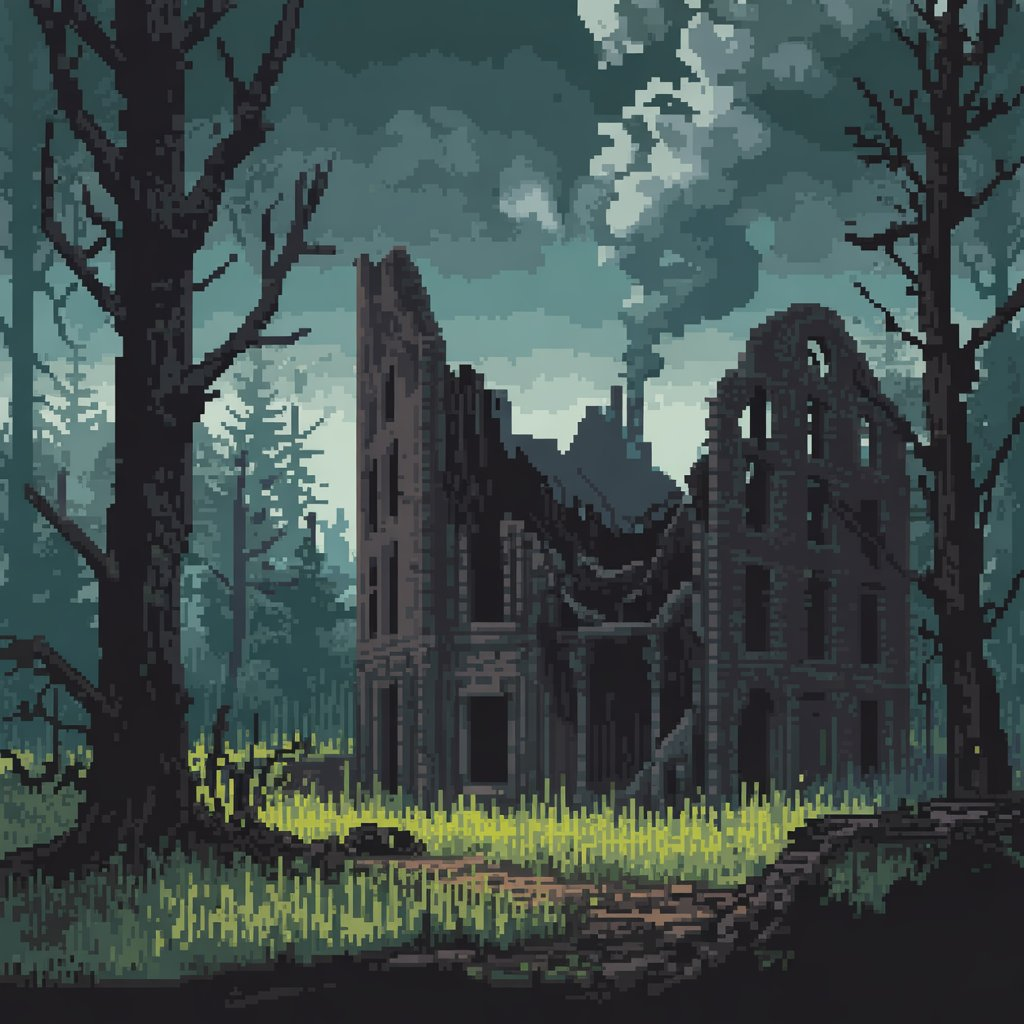
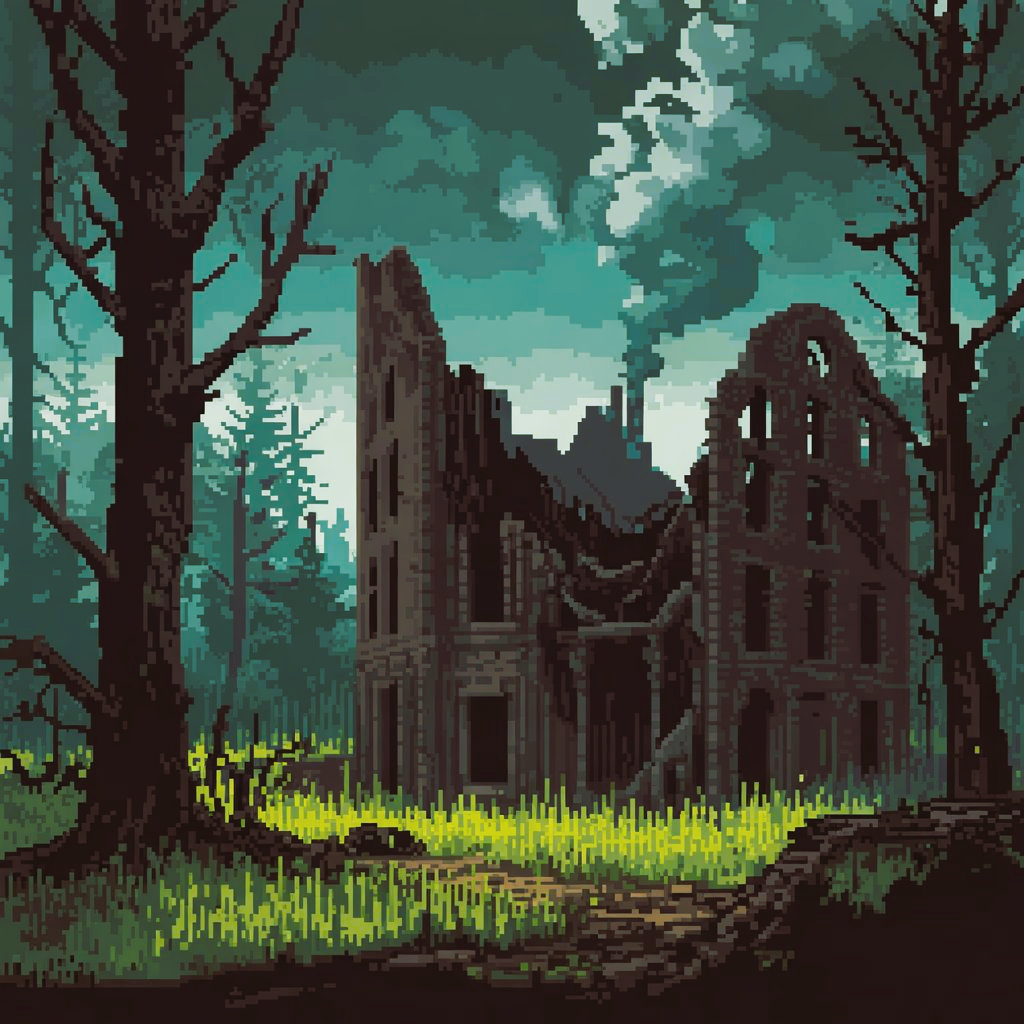
mudando visual

diff --git a/guaxinim.js b/guaxinim.js
@@ -1,4 +1,3 @@
-// Configuração inicial
 const canvas = document.getElementById('canvas').getContext('2d');
 canvas.imageSmoothingEnabled = false;
 
@@ -9,12 +8,12 @@ let tiros = new Audio('./Sound/som_tiro.wav');
 let death = new Audio('./Sound/som_morte.wav'); 
 let capivara = new Audio('./Sound/som_morte.wav');
 // let pedro = new Audio('./Sound/som_morte.wav');
-musica_fundo.loop = true;  // Faz a música tocar em loop
-musica_fundo.volume = 0.5; // Ajusta o volume para 50%
-tiros.volume = 0.8; // Ajusta o volume para 50%
-death.volume = 0.8; // Ajusta o volume para 50%
-capivara.volume = 0.8; // Ajusta o volume para 50%
-// pedro.volume = 0.8; // Ajusta o volume para 50%
+musica_fundo.loop = true;
+musica_fundo.volume = 0.5;
+tiros.volume = 0.8;
+death.volume = 0.8;
+capivara.volume = 0.8;
+// pedro.volume = 0.8;
 
 document.getElementById('playMusic').addEventListener('click', () => {
   if(musica_fundo.paused) {
@@ -42,7 +41,9 @@ let pts = 0; // Mantenha pts como uma variável global
 let faseAtual = 1;
 const FASE_2_PONTOS = 40;
 const FASE_3_PONTOS = 80;
-const FASE_FINAL = 120;
+const FASE_4_PONTOS = 120;
+const FASE_5_PONTOS = 160;
+const FASE_6_PONTOS = 200;
 
 // Grupos de objetos
 let groupShoot = [];
@@ -51,7 +52,7 @@ let groupSoldiers = [];
 // Fundos por fase
 const fundosPorFase = [
     { fundo: "assets/fundo3.png", fundo2: "assets/fundo3_1.png" },
-    { fundo: "assets/fundo1.png", fundo2: "assets/fundo1_1.png" },
+    { fundo: "assets/fundo2.png", fundo2: "assets/fundo2_1.png" },
     { fundo: "assets/fundo4.png", fundo2: "assets/fundo4_1.png" }
 ]
 
@@ -82,17 +83,46 @@ const infinityBg = {
         if (this.bg.x >= 2600) this.bg.x = 0;
         if (this.bg2.x >= 1300) this.bg2.x = -1300;
         if (this.bg3.x >= 0) this.bg3.x = -2600;
+    },
+    atualizarFundo(fase) {
+        // Usa o operador módulo (%) para ciclar entre as fases disponíveis
+        const indice = (fase - 1) % fundosPorFase.length;
+        this.bg.image = fundosPorFase[indice].fundo;
+        this.bg2.image = fundosPorFase[indice].fundo2;
+        this.bg3.image = fundosPorFase[indice].fundo;
     }
 };
 
 // Sistema de fases
 function atualizarFase() {
-    const novaFase = pts >= FASE_FINAL ? 4 : pts >= FASE_3_PONTOS ? 3 : pts >= FASE_2_PONTOS ? 2 : 1;
+    const novaFase = pts >= FASE_6_PONTOS ? 6 : pts >= FASE_5_PONTOS ? 5 : pts >= FASE_4_PONTOS ? 4 : pts >= FASE_3_PONTOS ? 3 : pts >= FASE_2_PONTOS ? 2 : 1;
 
     if (novaFase !== faseAtual) {
         faseAtual = novaFase;
         infinityBg.atualizarFundo(faseAtual);
         mostrarMensagemFase();
+    }
+    const faseAnterior = faseAtual;
+    faseAtual = pts >= FASE_6_PONTOS ? 6 : 
+               pts >= FASE_5_PONTOS ? 5 : 
+               pts >= FASE_4_PONTOS ? 4 : 
+               pts >= FASE_3_PONTOS ? 3 : 
+               pts >= FASE_2_PONTOS ? 2 : 1;
+
+    if (faseAtual !== faseAnterior) {
+        infinityBg.atualizarFundo(faseAtual);
+        mostrarMensagemFase();
+        
+        // Aumenta a dificuldade progressivamente
+        aumentarDificuldade(faseAtual);
+    }
+}
+
+function aumentarDificuldade(fase) {
+    // Você pode adicionar efeitos especiais para fases específicas
+    if (fase === 4) {
+        // Exemplo: na fase 4 (que usa o mesmo fundo que a 1), adicione algo especial
+        console.log("Fase especial iniciada!");
     }
 }
 
@@ -118,10 +148,12 @@ const soldiers = {
 
     spawnSoldiers() {
         this.time++;
-        const spawnRate = faseAtual === 4 ? 30 : faseAtual === 3 ? 40 : faseAtual === 2 ? 50 : 60;
+        const spawnRate = faseAtual === 6 ? 10 : faseAtual === 5 ? 20 : faseAtual === 4 ? 30 : faseAtual === 3 ? 40 : faseAtual === 2 ? 50 : 60;
 
         if (this.time >= spawnRate) {
             const speed = 
+                faseAtual === 6 ? 17 + Math.random() * 5 :
+                faseAtual === 5 ? 14 + Math.random() * 6 :
                 faseAtual === 4 ? 11 + Math.random() * 7 :
                 faseAtual === 3 ? 8 + Math.random() * 8 :
                 faseAtual === 2 ? 5 + Math.random() * 9 :
@@ -247,7 +279,58 @@ const game = {
         soldiers.update();
         atualizarFase();
         this.placar.update_text(`Pontos: ${pts} Fase: ${faseAtual}`);
-    }
+    },
+    initTouchControls() {
+        const canvasElement = document.getElementById('canvas');
+        let touchStartX = 0;
+        let touchStartY = 0;
+        
+        canvasElement.addEventListener('touchstart', (e) => {
+            e.preventDefault();
+            const touch = e.touches[0];
+            touchStartX = touch.clientX;
+            touchStartY = touch.clientY;
+            
+            // Dispara um tiro no toque
+            if (bullets > 0) {
+                bullets--;
+                tiros.play();
+                groupShoot.push(new Shoot(
+                    this.guaxinim.x + this.guaxinim.width,
+                    this.guaxinim.y + this.guaxinim.height / 2 - 15,
+                    30, 10,
+                    "assets/bala_direita.png"
+                ));
+                
+                this.guaxinim.image = "assets/guaxinimShoot_3.png";
+                setTimeout(() => {
+                    this.guaxinim.image = "assets/guaxinimShoot_1.png";
+                }, 100);
+            }
+        });
+        
+        canvasElement.addEventListener('touchmove', (e) => {
+            e.preventDefault();
+            const touch = e.touches[0];
+            const moveX = touch.clientX - touchStartX;
+            const moveY = touch.clientY - touchStartY;
+            
+            // Move o personagem proporcionalmente ao movimento do dedo
+            this.guaxinim.x += moveX * 2;
+            this.guaxinim.y += moveY * 2;
+            
+            // Limita o movimento dentro da tela
+            this.guaxinim.x = Math.max(0, Math.min(1300 - this.guaxinim.width, this.guaxinim.x));
+            this.guaxinim.y = Math.max(0, Math.min(600 - this.guaxinim.height, this.guaxinim.y));
+            
+            touchStartX = touch.clientX;
+            touchStartY = touch.clientY;
+        });
+    },
+};
+menu.click = function() {
+    mudaCena(game);
+    game.initTouchControls(); // Adiciona controles touch
 };
 
 const gameOver = {
@@ -274,6 +357,7 @@ const gameOver = {
         infinityBg.moveBg();
         this.placar.update_text(`Pontos: ${pts} Fase: ${faseAtual}`);
     }
+    
 };
 
 // Funções globais
@@ -289,8 +373,10 @@ function gameLoop() {
     requestAnimationFrame(gameLoop);
 }
 
-// Event listeners
 document.addEventListener("click", (e) => {
+    if (cenaCorrente.click) cenaCorrente.click(e);
+});
+document.addEventListener("touchpress", (e) => {
     if (cenaCorrente.click) cenaCorrente.click(e);
 });
 

diff --git a/bot.html b/bot.html
@@ -11,8 +11,10 @@
   <title>Bot Battle</title>
 </head>
 <body>
+  <div id="backgroundImg">
   <button id="playMusic">♫</button>
   <button onclick="window.location.href='index.html';" id="bot">Voltar</button>
   <canvas id="canvas" width="1300" height="600"></canvas>
+</div>
 </body>
 </html>

diff --git a/style2.css b/style2.css
@@ -1,7 +1,8 @@
 body{
     margin: 0px;
     padding: 0px;
-    background-color: #3b3b3b;
+    background-color: #001c00;
+    background-image: url('./assets/canvaBG.jpeg'), linear-gradient(#001c00, #000);
   }
   
   canvas{
